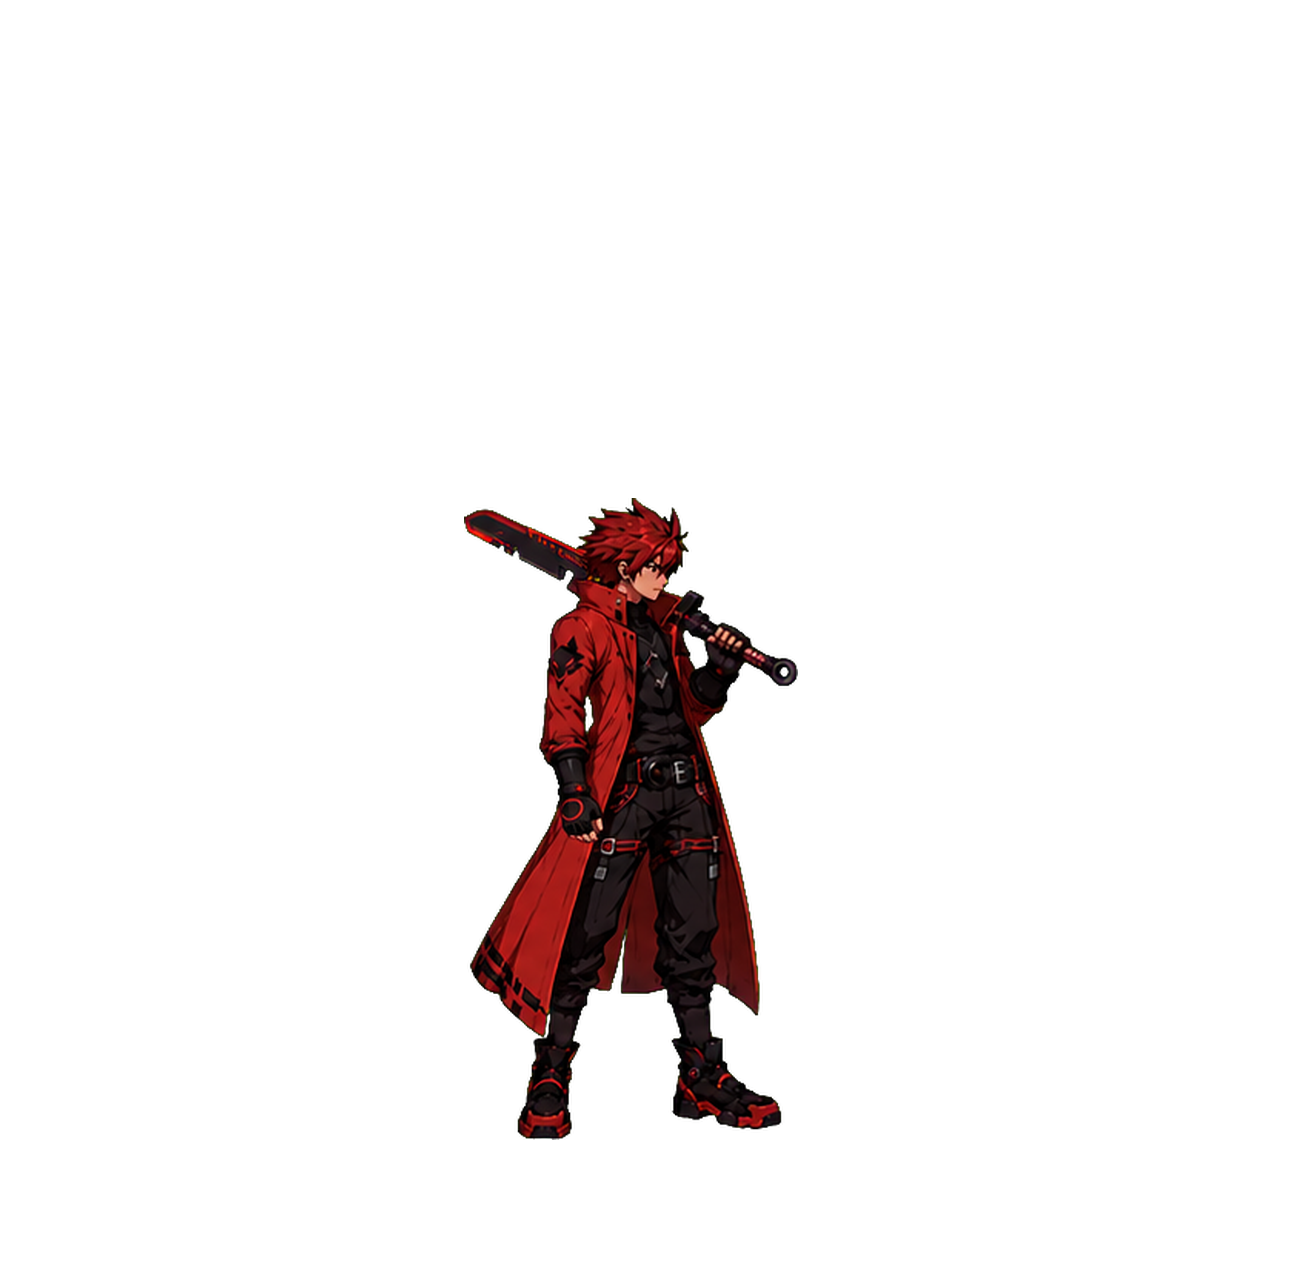
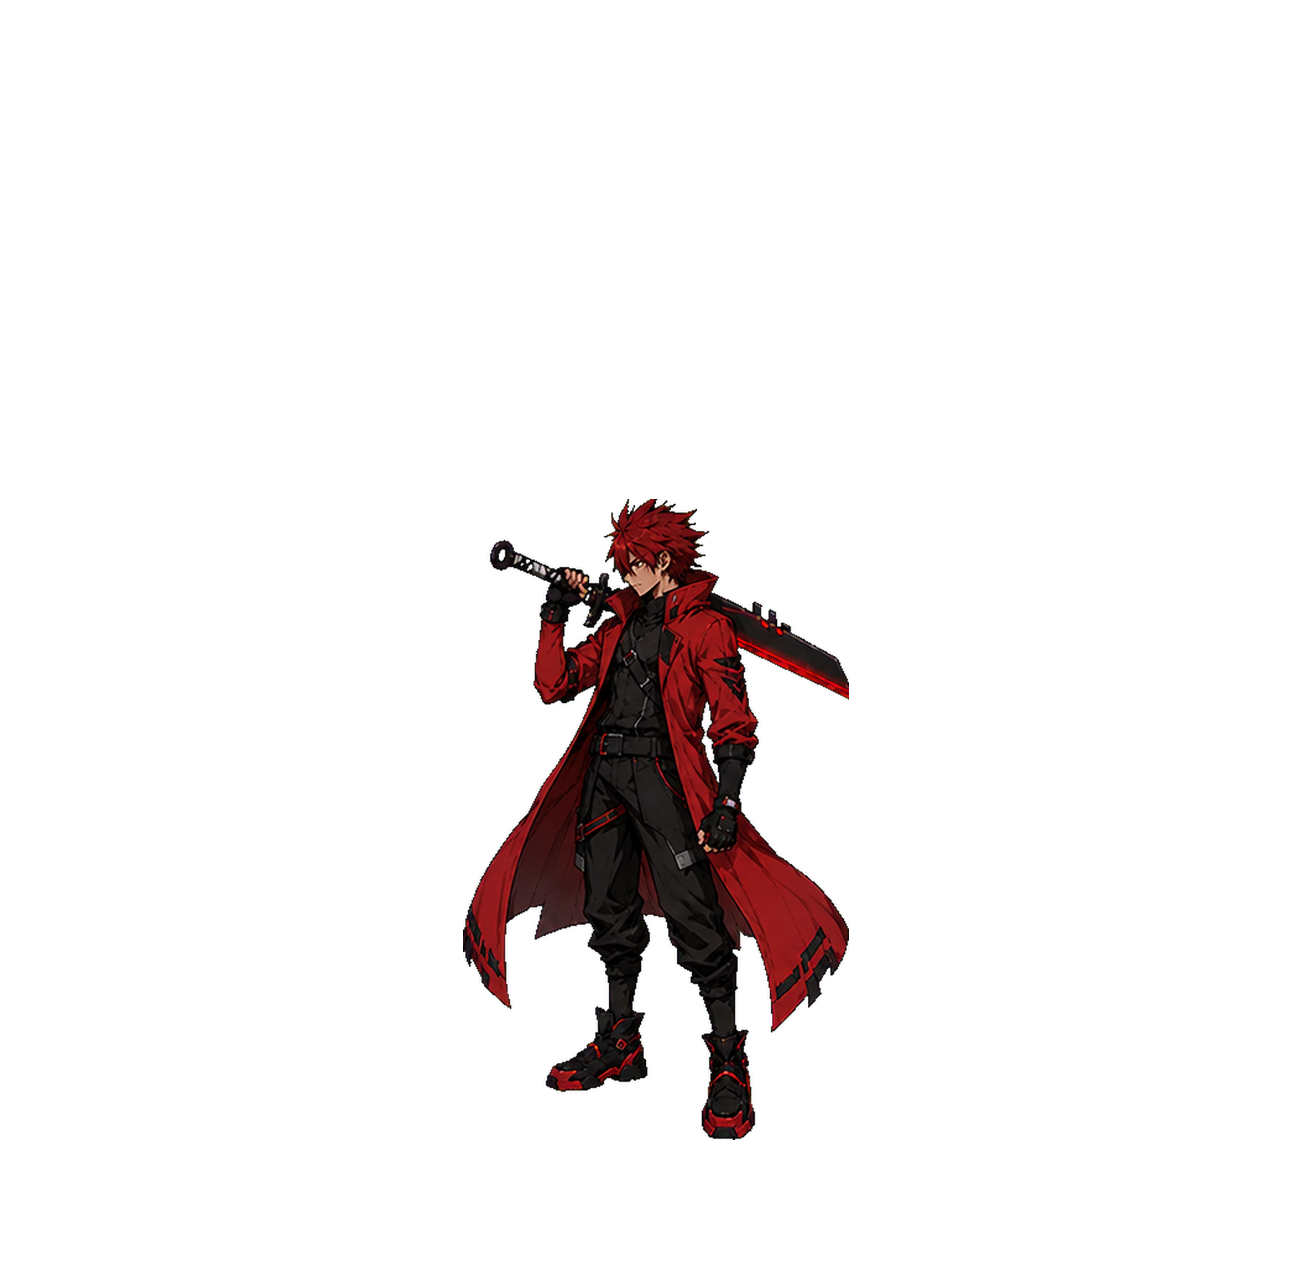
KO en el aire = BOCA ABAJO (ko_air), y pose idle nueva
- KO aéreo: nueva anim ko_air (= hit-down f1, boca abajo). Al morir lanzado, el
  rival corta el vuelo, cae RÁPIDO ya en pose boca abajo y queda tendido boca abajo
  ANTES del freeze. Ya no gira grande ni flota ni cambia brusco a la caída de espaldas.
  KO en el suelo sigue con 'ko' (boca arriba). Verificado en runtime con lanzamiento real.
- pose idle: procesada la nueva pose-sheet (8 frames), normalizada al mismo tamaño
  que la pose anterior (cuerpo ~629, pies a 1139).
- GUIA-SPRITES: documentadas las dos variantes de KO.

Claude-Session: https://claude.ai/code/session_018bBdMRRanuJjytr5DkoguU

Changed region(s): [[0.3385, 0.375, 0.6769, 0.9062]]

diff --git a/GUIA-SPRITES.md b/GUIA-SPRITES.md
@@ -351,12 +351,18 @@ sueltos por masa corporal para que encajen).
     - **f5 — TENDIDO BOCA ARRIBA:** completamente horizontal en el suelo, boca arriba,
       inmóvil, ojos cerrados, KO total. La katana caída en el piso junto a la mano.
       Este frame se queda en pantalla.
-    Los frames 4-5 apoyan el cuerpo en la MISMA línea inferior (piso).
-    **TAMAÑO DE LA KATANA (importante):** hoja de LARGO NORMAL/razonable (tipo espada,
-    aprox. el largo del brazo o un poco más), NUNCA una hoja enorme ni muy larga. El
-    PERSONAJE nunca se debe achicar para que la katana quepa en el lienzo: si algo se
-    ajusta, es la katana (mantenla proporcionada y más corta), jamás encoger al
-    personaje. El personaje ocupa el lienzo a tamaño completo y consistente.
+    - **NOTA — dos KO distintos:** este `ko` (boca ARRIBA, caída de espaldas) es para el
+      KO **en el suelo**. El KO **en el aire** (cuando el golpe mortal lo lanzó) usa la
+      anim `ko_air` = frame 1 de `hit-down` (tendido BOCA ABAJO, de bruces): el rival cae
+      ya en esa pose y queda tendido boca abajo, coherente con salir despedido hacia
+      adelante. Si algún día quieres un frame dedicado de "muerto boca abajo" más pulido,
+      hazlo con la misma regla de f1 de hit-down (horizontal, brazos/piernas flojos).
+      Los frames 4-5 apoyan el cuerpo en la MISMA línea inferior (piso).
+      **TAMAÑO DE LA KATANA (importante):** hoja de LARGO NORMAL/razonable (tipo espada,
+      aprox. el largo del brazo o un poco más), NUNCA una hoja enorme ni muy larga. El
+      PERSONAJE nunca se debe achicar para que la katana quepa en el lienzo: si algo se
+      ajusta, es la katana (mantenla proporcionada y más corta), jamás encoger al
+      personaje. El personaje ocupa el lienzo a tamaño completo y consistente.
 
 17. **`victory-sheet.png` + `victory-sheet-2.png`** — 8 frames en total
     (4 por hoja). Victoria, con la envainada COMPLETA — cada frame una
@@ -373,6 +379,7 @@ sueltos por masa corporal para que encajen).
     - f7: katana envainada por completo, la mano suelta la empuñadura
     - f8: postura final relajada, mano en el bolsillo. Este frame se
       queda en pantalla.
+      dice como dos palabras tiene que hacer moviendo la boca por como dos plabras
 
 ---
 
@@ -663,15 +670,15 @@ en el efecto.
       dramática con chispas volando.
     - f5: empieza a bajar, las llamas se acuestan y se separan en jirones.
     - f6: se disuelve dejando brasas y humo tenue (deja el terreno ardiendo).
-    Dibuja la ola LARGA (ocupa casi todo el ancho del frame en el pico); deja
-    margen verde de sobra.
+      Dibuja la ola LARGA (ocupa casi todo el ancho del frame en el pico); deja
+      margen verde de sobra.
 
 30b. **`fire-floor-sheet.png`** — 4 frames (loop). FUEGO EN EL PISO que QUEDA
-    tras el inferno (un charco de llamas ardiendo en el suelo). SOLO el fuego,
-    sin personaje. Fondo verde #00FF00. Una franja BAJA y ancha de llamas ROJO-
-    naranja lamiendo el piso, con lenguas que suben y ondean; núcleo amarillo en
-    la base, puntas rojas. Los 4 frames son el fuego ONDULANDO en su sitio (loop
-    suave: f4 conecta con f1). Más ancho que alto, pegado al piso.
+tras el inferno (un charco de llamas ardiendo en el suelo). SOLO el fuego,
+sin personaje. Fondo verde #00FF00. Una franja BAJA y ancha de llamas ROJO-
+naranja lamiendo el piso, con lenguas que suben y ondean; núcleo amarillo en
+la base, puntas rojas. Los 4 frames son el fuego ONDULANDO en su sitio (loop
+suave: f4 conecta con f1). Más ancho que alto, pegado al piso.
 
 31. **`fire-wave-sheet-impact.png`** — 6 frames (UNA vez, NO loop). EXPLOSIÓN
     del INFIERNO cuando el vórtice CONECTA con el rival. SOLO el fuego/humo,
